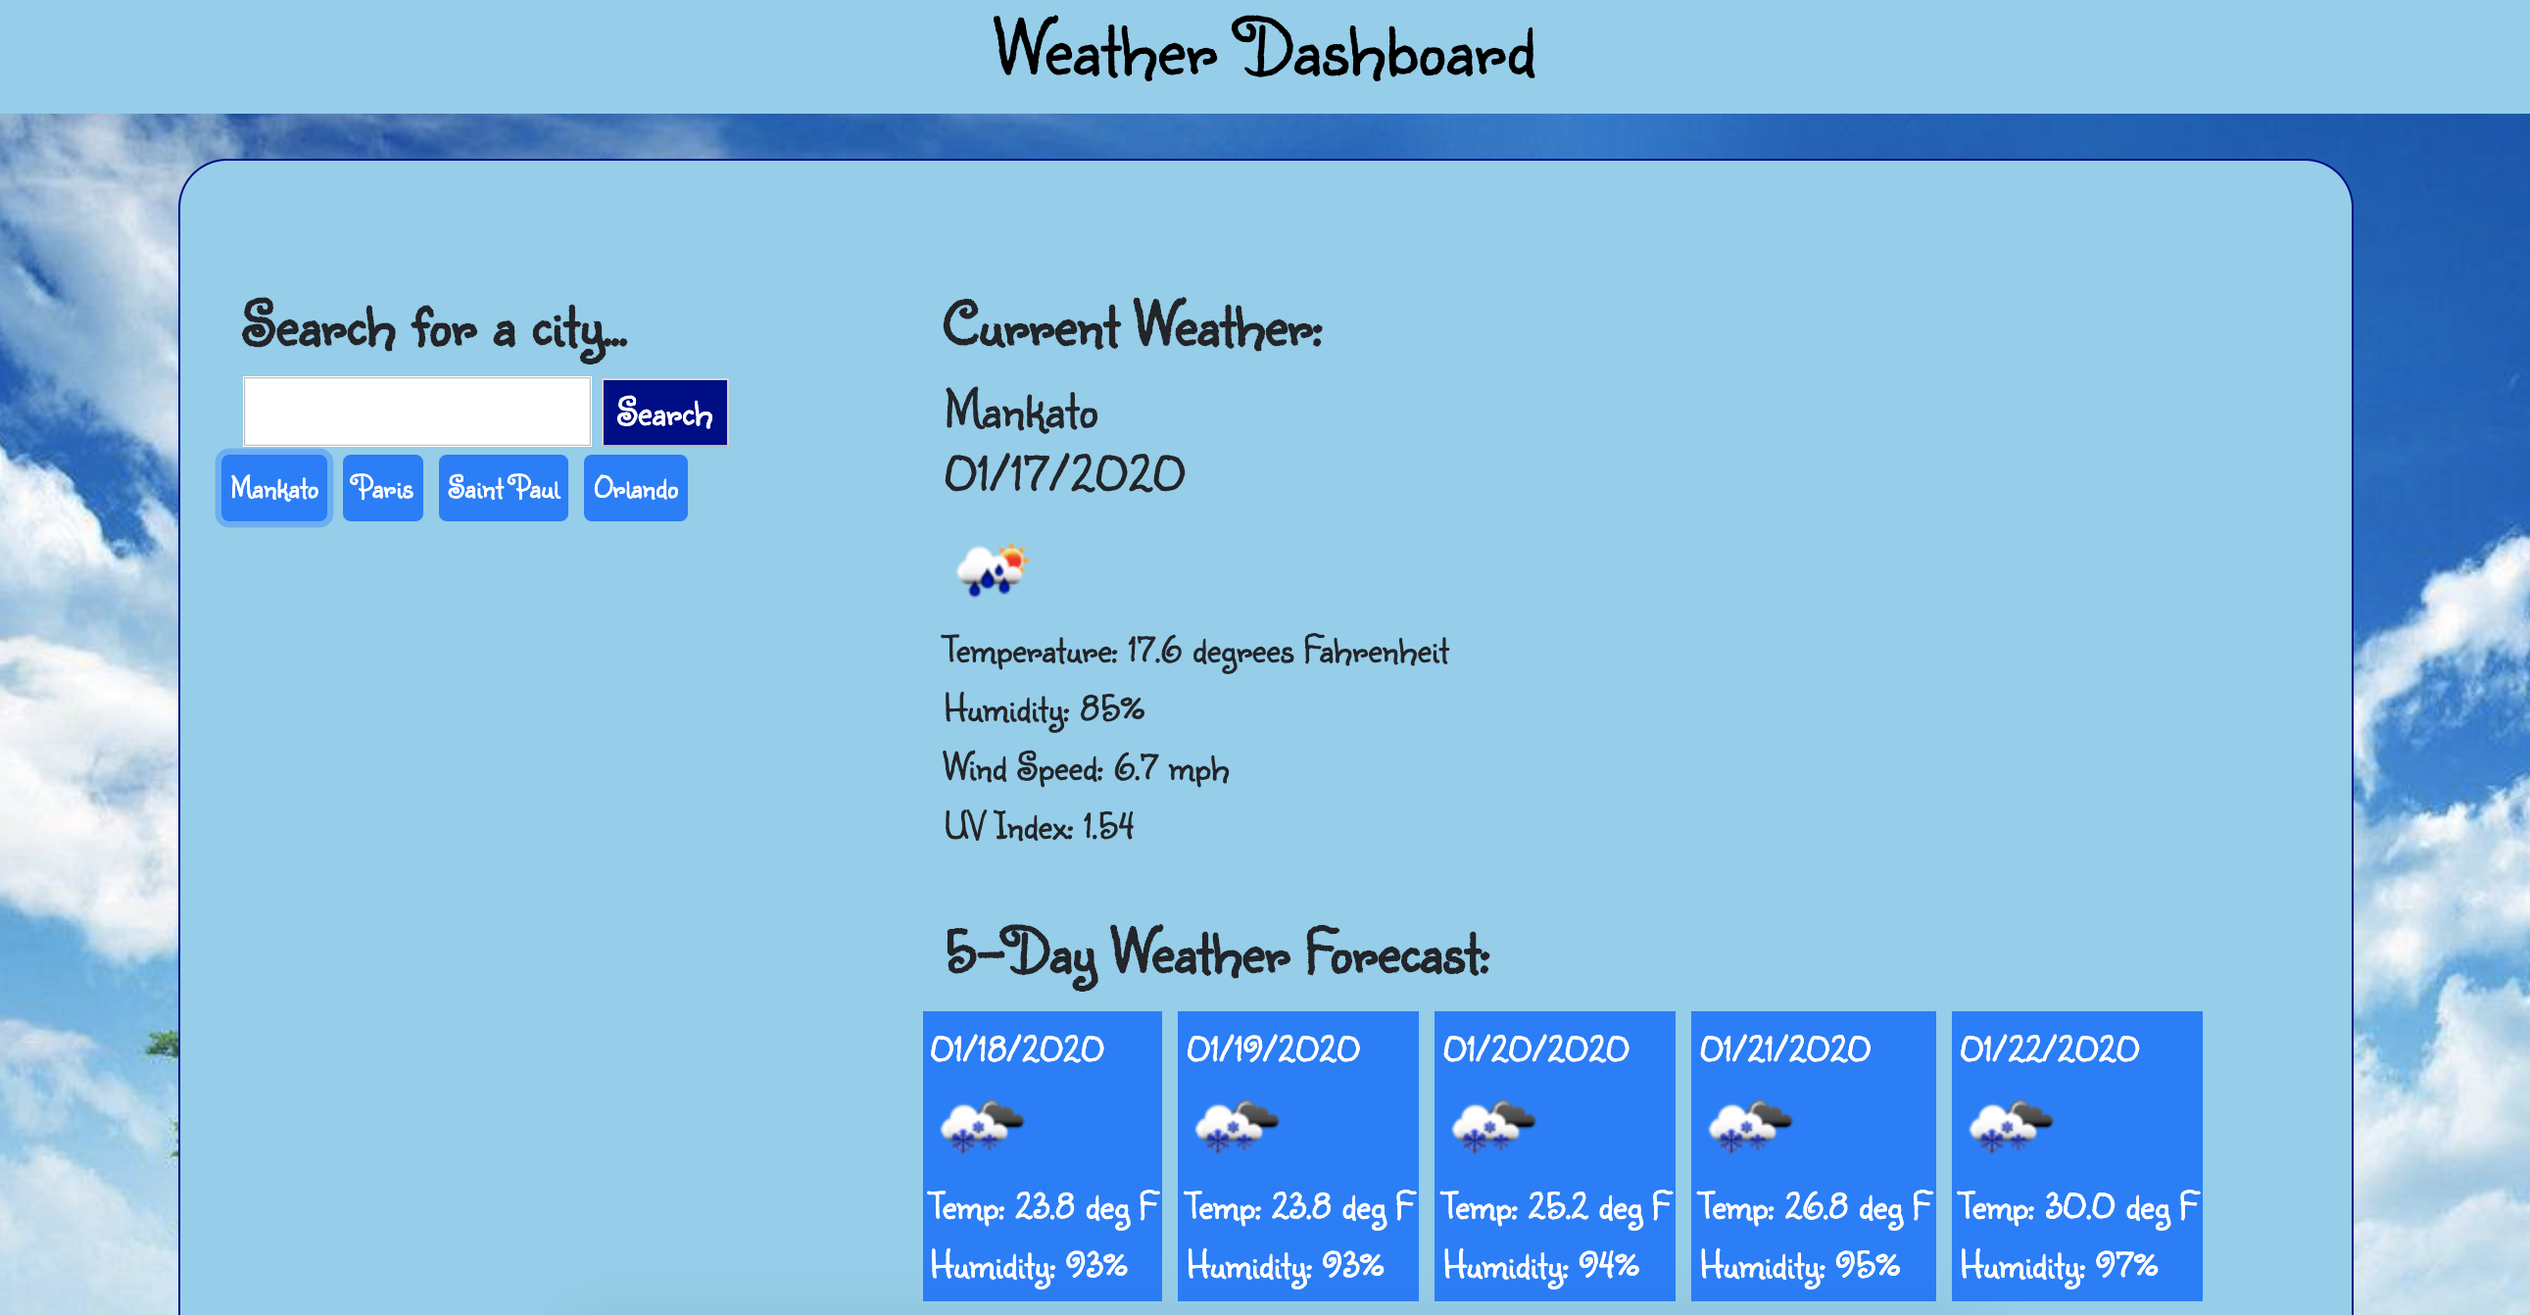
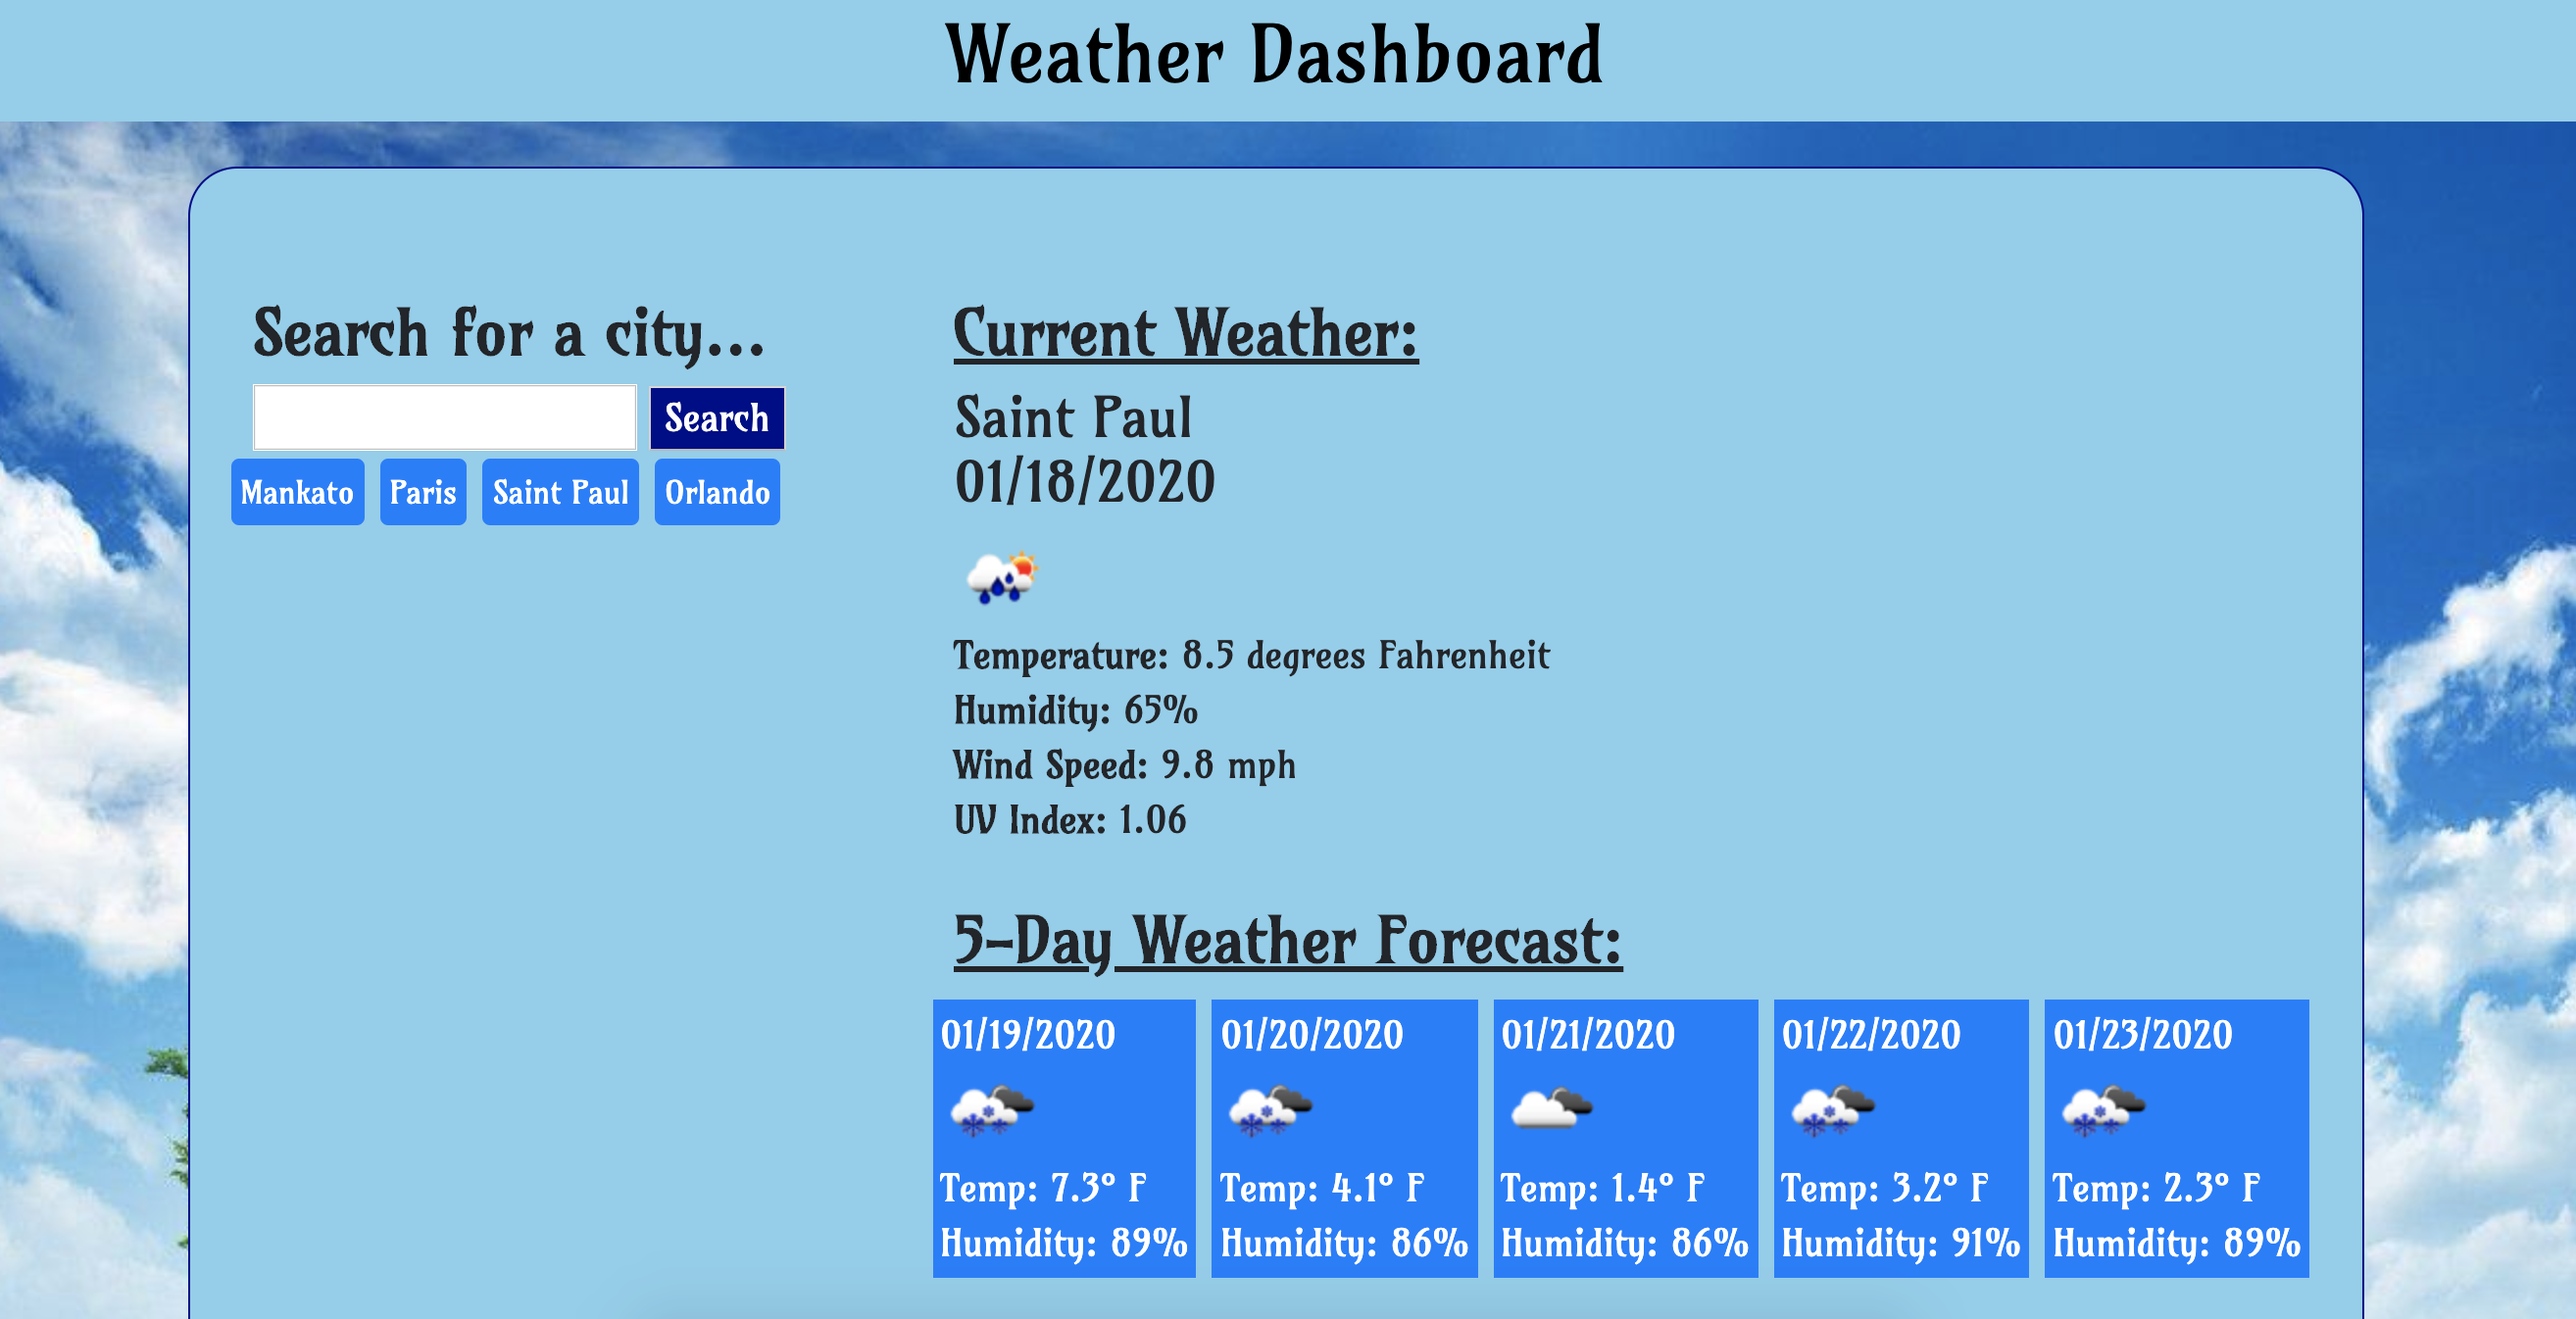
new font for dashboard and minor style changes. updated picture for portfolio gallery

diff --git a/weather_dashboard/assets/javascript/script.js b/weather_dashboard/assets/javascript/script.js
@@ -20,9 +20,9 @@ function searchCityWeather() {
         var weatherIconURL = "http://openweathermap.org/img/w/" + iconCode + ".png";
 
         $(".city").html("<h3>" + response.name + "<br/>" + moment().format('L' + "</h3>"));
-        $(".temperature").html("Temperature: " + ((response.main.temp - 273.15) * 1.80 + 32).toFixed(1) + " degrees Fahrenheit");
-        $(".humidity").html("Humidity: " + response.main.humidity + "%");
-        $(".wind").html("Wind Speed: " + response.wind.speed + " mph");
+        $(".temperature").html("<strong>Temperature:</strong> " + ((response.main.temp - 273.15) * 1.80 + 32).toFixed(1) + " degrees Fahrenheit");
+        $(".humidity").html("<strong>Humidity:</strong> " + response.main.humidity + "%");
+        $(".wind").html("<strong>Wind Speed:</strong> " + response.wind.speed + " mph");
         $(".icon").attr('src', weatherIconURL).attr('alt', 'weather icon');
 
         var uvIndexURL = "https://api.openweathermap.org/data/2.5/uvi?lat=" + response.coord.lat + "&lon=" + response.coord.lon + "&apikey=" + apiKey;
@@ -31,7 +31,7 @@ function searchCityWeather() {
             url: uvIndexURL,
             method: "GET"
         }).then(function (response) {
-            $(".uv").html("UV Index: " + response.value);
+            $(".uv").html("<strong>UV Index:</strong> " + response.value);
 
             var forecastURL = "https://api.openweathermap.org/data/2.5/forecast?q=" + city + "&apikey=" + apiKey;
 
@@ -54,7 +54,7 @@ function searchCityWeather() {
                     newDiv.html(moment().add((i + 1), 'days').format('L')).addClass("text-white");
                     $(".forecast").append(newDiv);
                     $(newDiv).append(newRow);
-                    $(forecastTemp).html("Temp: " + ((response.list[i].main.temp - 273.15) * 1.8 + 32).toFixed(1) + " deg F");
+                    $(forecastTemp).html("Temp: " + ((response.list[i].main.temp - 273.15) * 1.8 + 32).toFixed(1) + "° F");
                     $(forecastHumidity).html("Humidity: " + response.list[i].main.humidity + "%");
                     $(".next-line" + i).append(iconDiv);
                     $("#" + i).append(forecastTemp);

diff --git a/weather_dashboard/index.html b/weather_dashboard/index.html
@@ -7,7 +7,7 @@
     <meta http-equiv="X-UA-Compatible" content="ie=edge">
     <link rel="stylesheet" href="https://stackpath.bootstrapcdn.com/bootstrap/4.3.1/css/bootstrap.min.css"
         integrity="sha384-ggOyR0iXCbMQv3Xipma34MD+dH/1fQ784/j6cY/iJTQUOhcWr7x9JvoRxT2MZw1T" crossorigin="anonymous">
-        <link href="https://fonts.googleapis.com/css?family=Sunshiney&display=swap" rel="stylesheet">
+<link href="https://fonts.googleapis.com/css?family=Amarante&display=swap" rel="stylesheet">
     <link rel="stylesheet" href="assets/css/style.css" />
     <title>Weather Dashboard</title>
 </head>
@@ -38,7 +38,7 @@
 
             <div class="col-md-8">
 
-                <h2><strong>Current Weather:</strong></h2>
+                <h2><strong><u>Current Weather:</u></strong></h2>
 
                 <div class="city"></div>
                 <img class="icon"></img>
@@ -49,7 +49,7 @@
 
                 <br />
 
-                <h2><strong>5-Day Weather Forecast:</strong></h2>
+                <h2><strong><u>5-Day Weather Forecast:</u></strong></h2>
 
                 <div class="row forecast"></div>
 

diff --git a/weather_dashboard/assets/css/style.css b/weather_dashboard/assets/css/style.css
@@ -2,8 +2,8 @@ body {
     background: url("../images/sunny.png");
     background-size: cover;
     background-attachment: fixed;
-    font-family: 'Sunshiney', cursive;
-    font-size: 20px;
+    font-family: 'Amarante', cursive;
+    font-size: 19px;
 }
 
 h1 {
